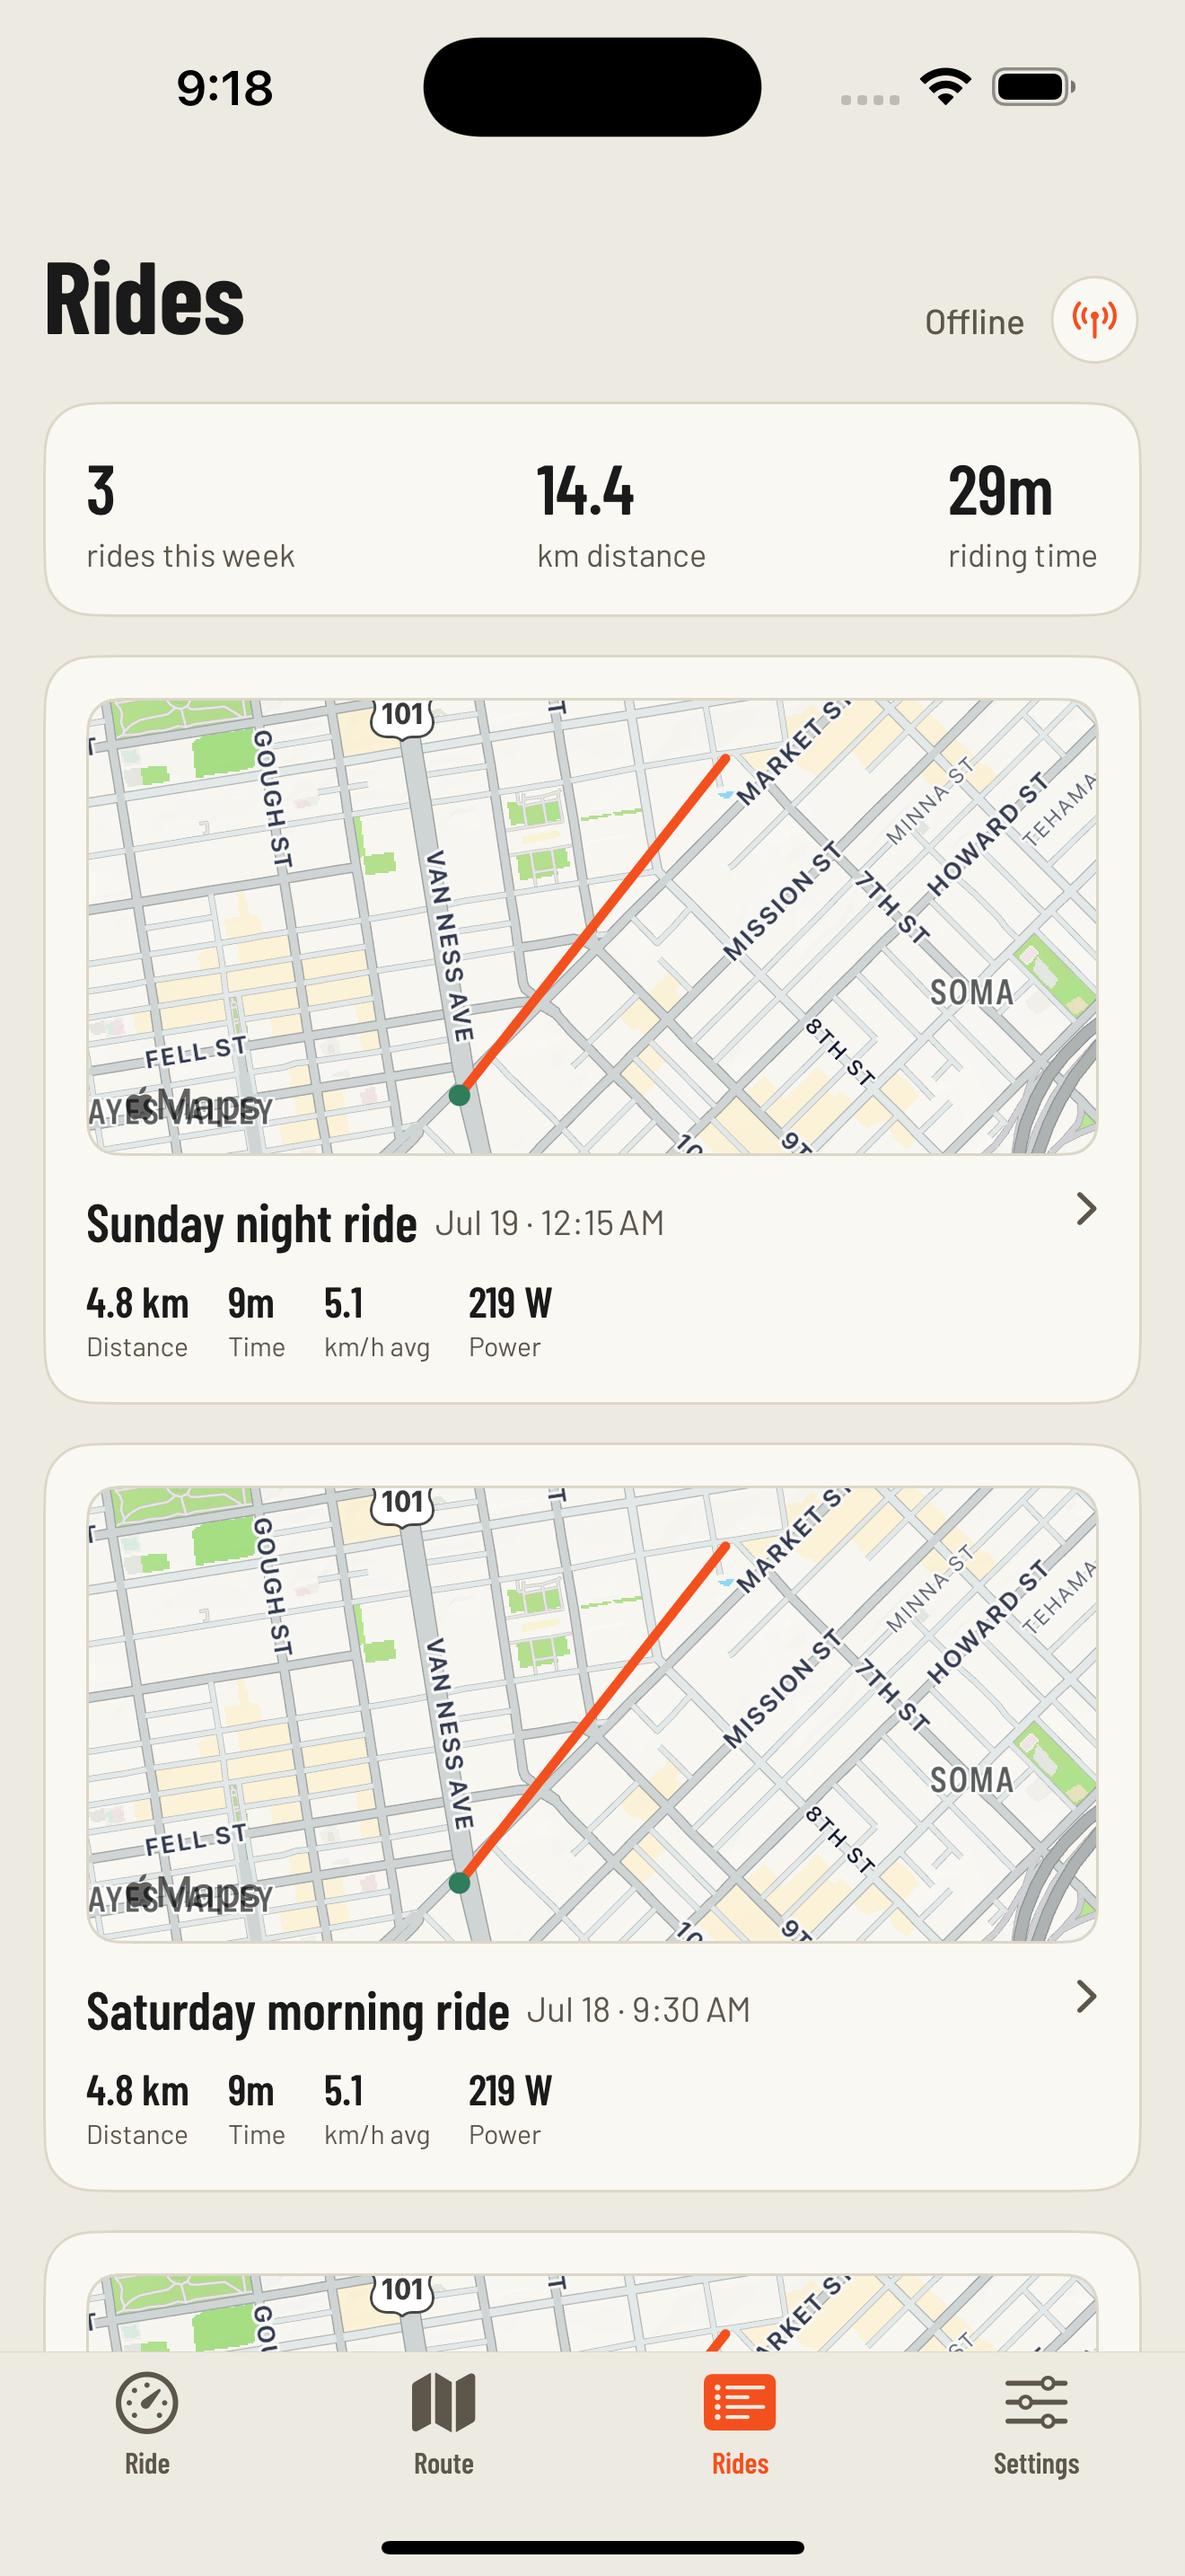
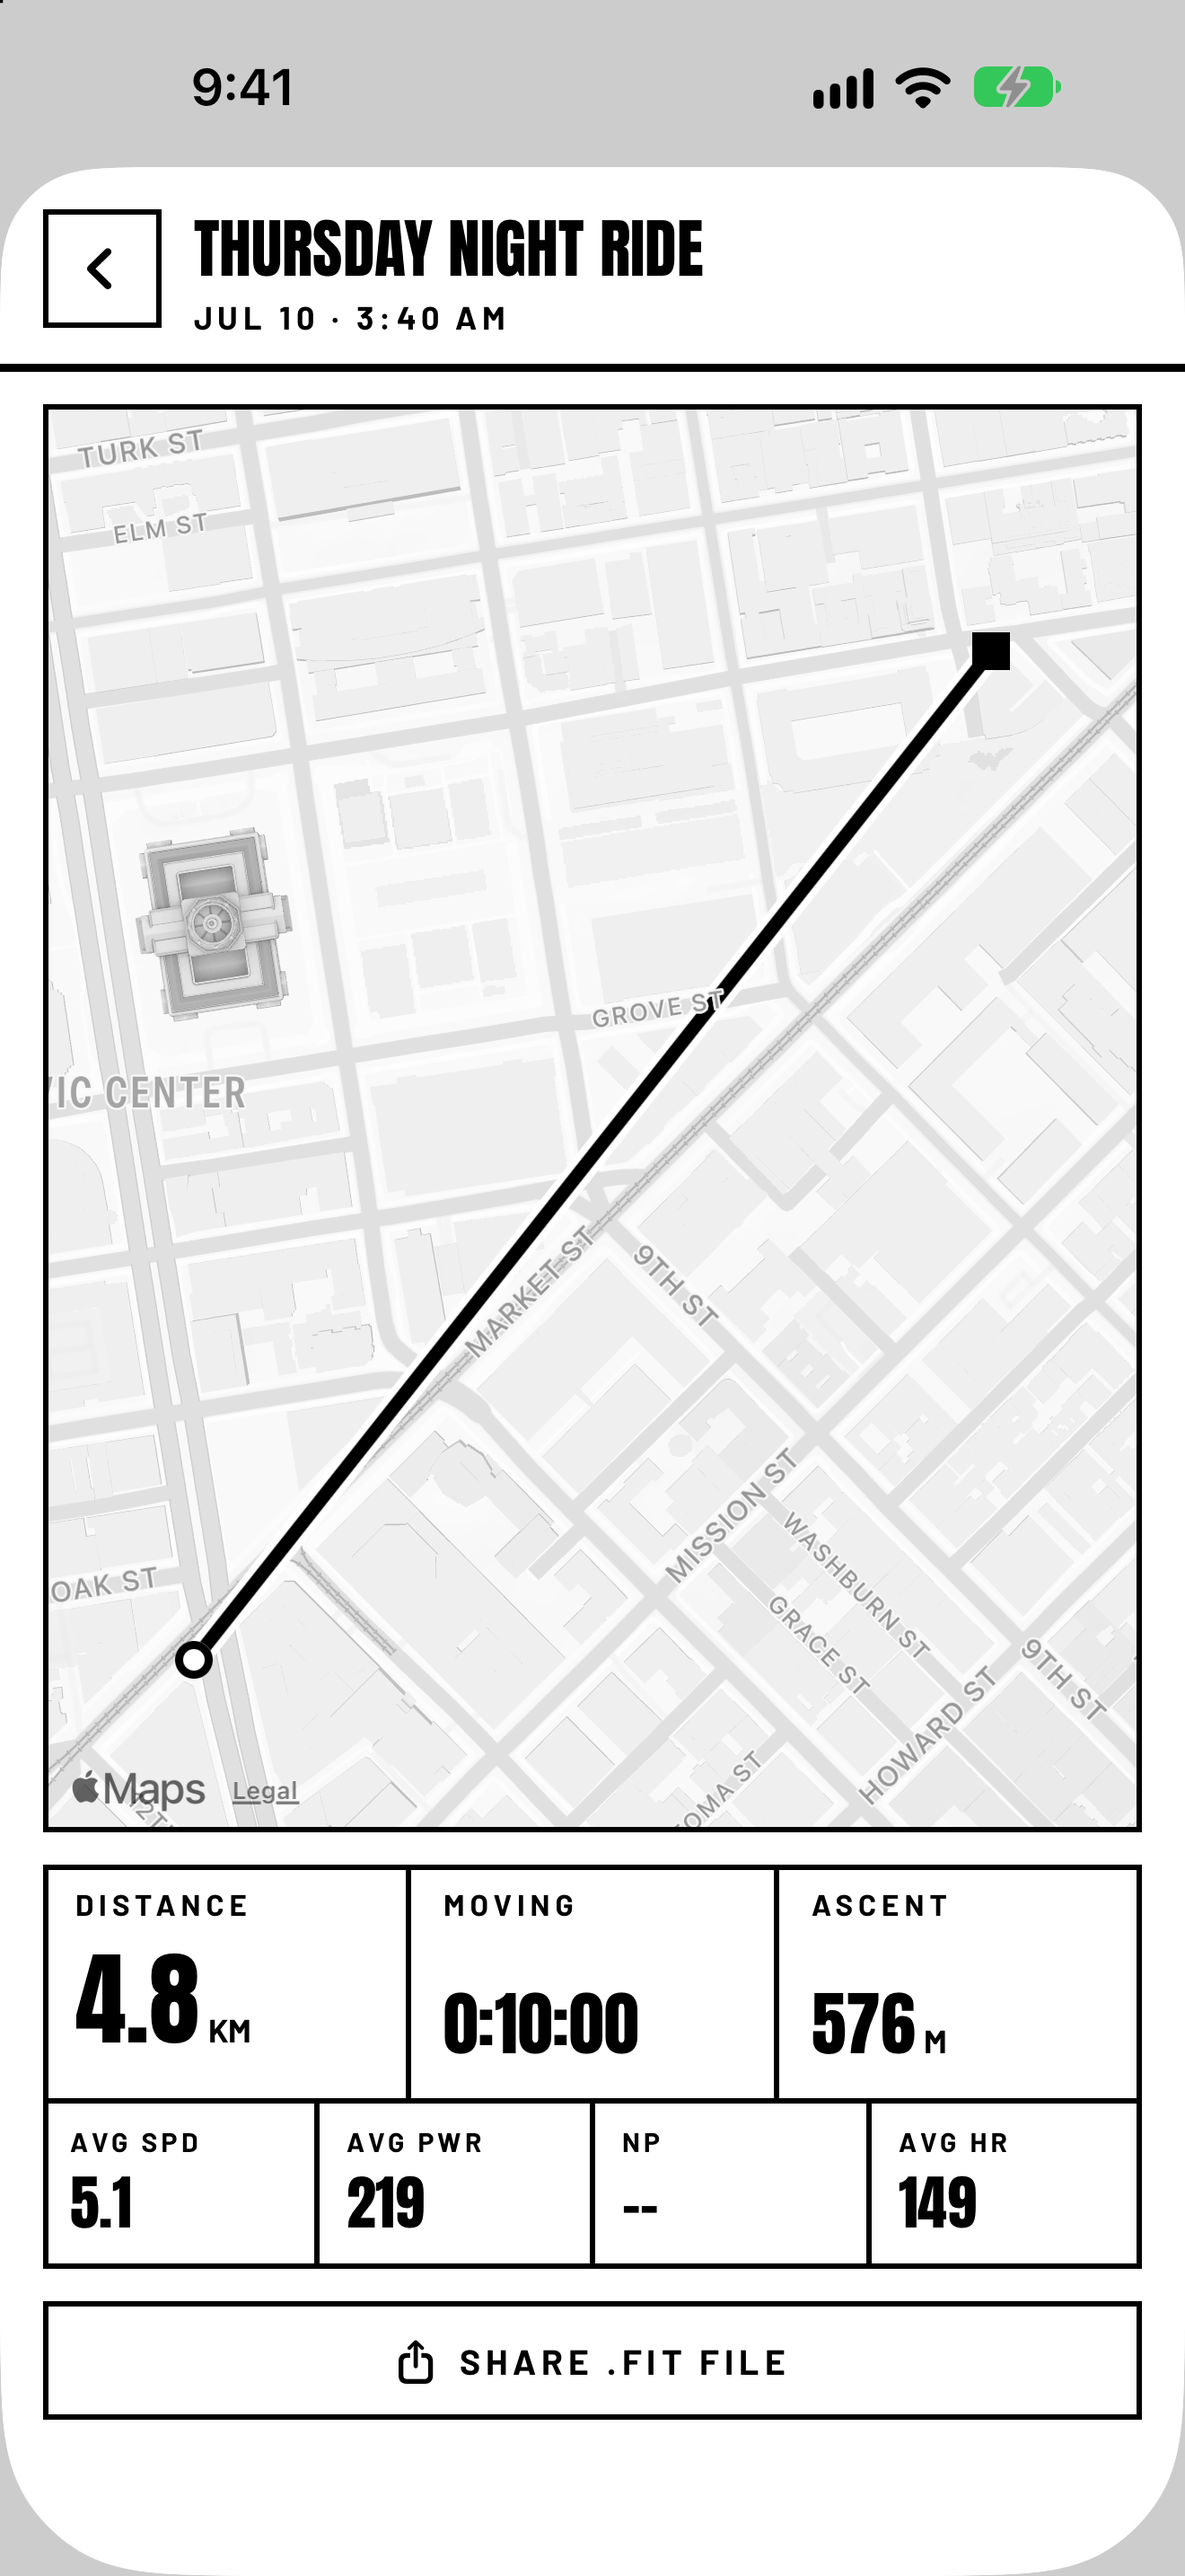
Site: app gallery shows the 1.4 screens (#168)
* Site: app gallery shows the 1.4 screens

Route, ride and settings screenshots recaptured from the 1.4 build (the new
black-on-white look). The ride shot is now a ride's detail page, which is
what its caption describes.

Claude-Session: https://claude.ai/code/session_01X57ctQpfi9LeUkx8ToBKUJ

* Site: iPhone frame gets a black bezel and the Dynamic Island

Claude-Session: https://claude.ai/code/session_01X57ctQpfi9LeUkx8ToBKUJ

---------

diff --git a/docs/style.css b/docs/style.css
@@ -436,17 +436,22 @@ section .sub { color: var(--ink-soft); font-size: 1.06rem; margin: 0 0 40px; max
   .app-shot { flex: none; width: 240px; }
 }
 .app-shot { margin: 0; }
-/* iPhone 17 Pro: titanium frame, thin uniform bezel, Dynamic Island */
+/* iPhone 17 Pro: thin titanium band, black bezel, Dynamic Island */
 .iphone {
   position: relative; width: 100%; max-width: 232px; margin: 0 auto;
-  padding: 9px; border-radius: 46px;
-  background: linear-gradient(150deg, #e4e5e8, #b8bcc2 45%, #cfd2d7);
-  box-shadow: 0 20px 44px rgba(20, 20, 20, 0.22),
-              inset 0 0 0 1.5px rgba(255, 255, 255, 0.45),
-              inset 0 0 2px 2.5px rgba(0, 0, 0, 0.12);
+  padding: 6px; border: 3px solid transparent; border-radius: 40px;
+  background: linear-gradient(#0b0b0c, #0b0b0c) padding-box,
+              linear-gradient(150deg, #e4e5e8, #a9adb4 45%, #d3d6db) border-box;
+  box-shadow: 0 20px 44px rgba(20, 20, 20, 0.22);
 }
 .iphone img {
-  display: block; width: 100%; height: auto; border-radius: 38px; background: #000;
+  display: block; width: 100%; height: auto; border-radius: 31px; background: #000;
+}
+/* Island: 125 × 37 pt on a 402 pt wide screen, 11 pt from the top */
+.iphone::after {
+  content: ""; position: absolute; left: 50%; transform: translateX(-50%);
+  top: calc(6px + 1.26%); width: calc((100% - 12px) * 0.311);
+  aspect-ratio: 125 / 37; border-radius: 999px; background: #000;
 }
 .app-shot figcaption { margin-top: 20px; font-size: 0.95rem; color: var(--ink-soft); line-height: 1.55; }
 .app-shot figcaption strong {

diff --git a/docs/index.html b/docs/index.html
@@ -124,7 +124,7 @@
       </figure>
       <figure class="app-shot">
         <div class="iphone">
-          <img loading="lazy" src="img/app_ride.png" alt="Rides list in the app">
+          <img loading="lazy" src="img/app_ride.png" alt="A recorded ride in the app: its map, distance, time, ascent, power and heart rate">
         </div>
         <figcaption><strong>Copy recorded rides</strong>Transfer rides from the device, then review the map, distance, power, heart rate and estimated ascent.</figcaption>
       </figure>
